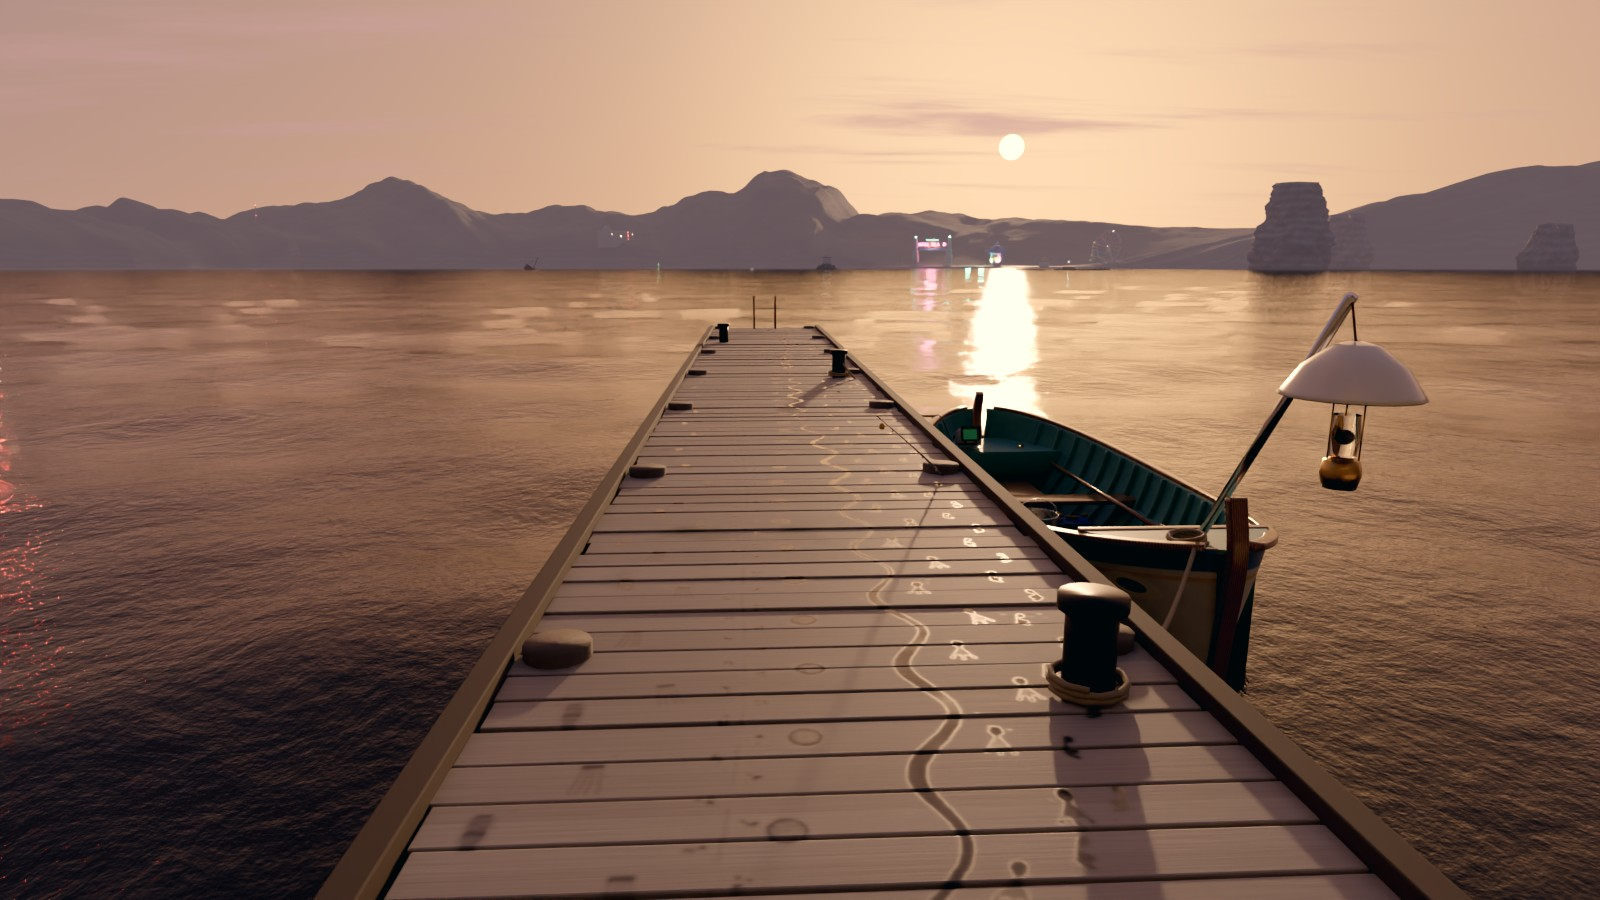
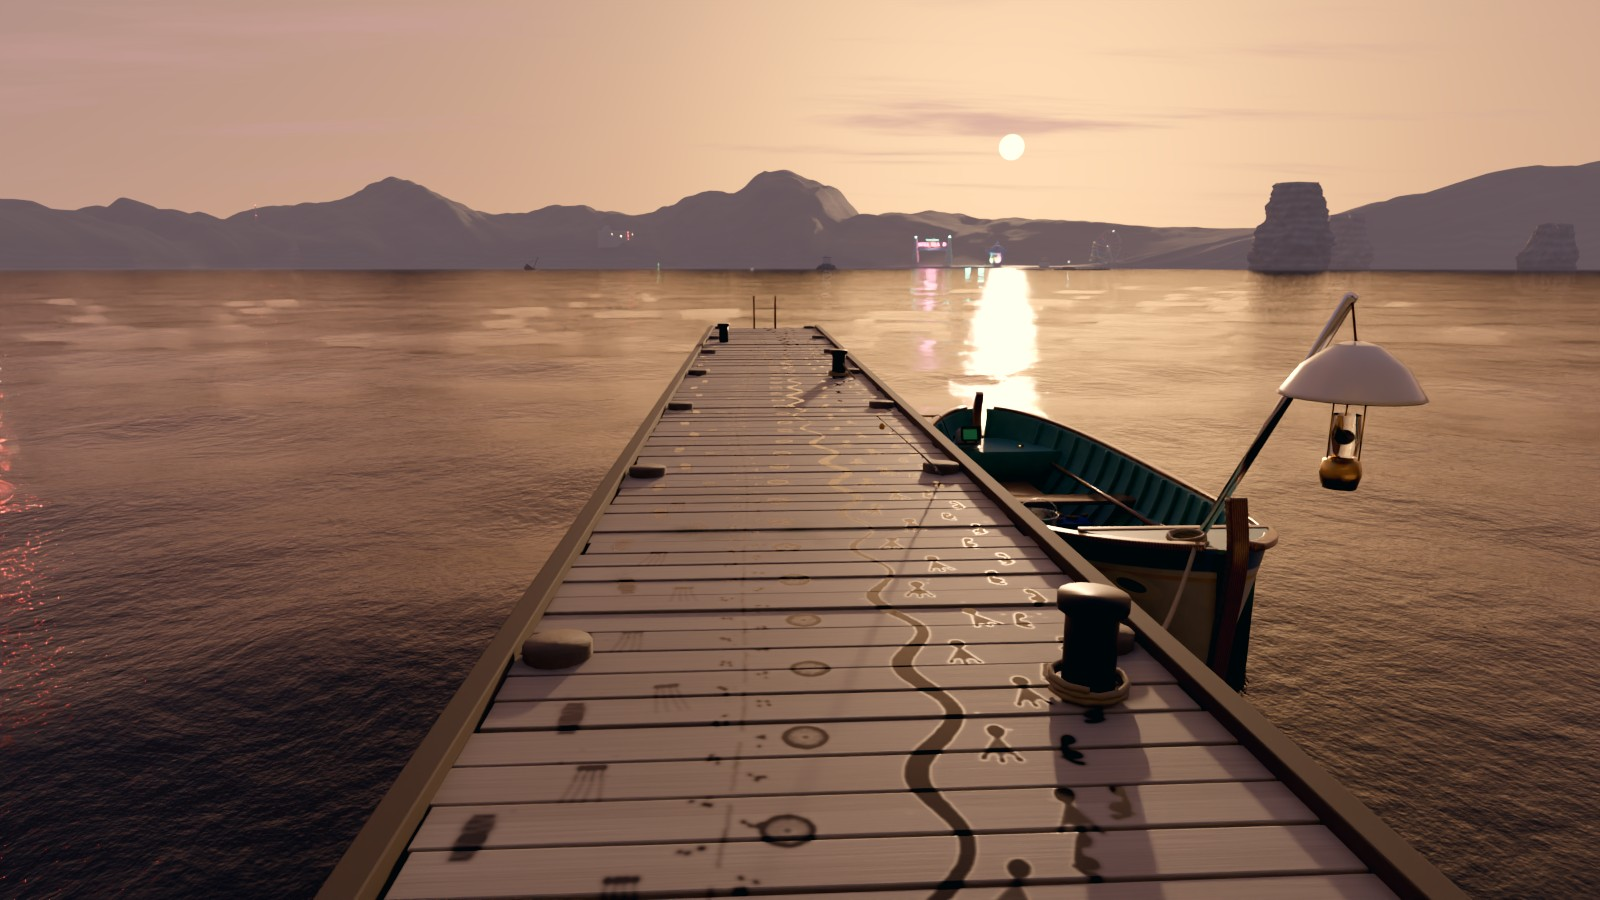
Finali segreti: seconda anteprima, da approvare
- molo: impronte più grandi (×1,3) e bagnate fradice (legno quasi nero e lucido,
  riflesso dell'acqua): si leggono tutte e sette anche fuori dalla scia del sole
- edicola: la Polaroid appesa con una molletta a uno spago davanti all'edicola,
  inquadratura stretta (medio tele, f/1,4), a fuoco e un quarto del quadro; le foto
  vecchie sfocate dietro, i lumini fuori quadro; la foto ricomposta perché il
  pescatore si legga sopra il bordo
- documento aggiornato

Claude-Session: https://claude.ai/code/session_012qJwcTD6jF9nZVGwVqjPut

diff --git a/tools/render/finali.py b/tools/render/finali.py
@@ -10,10 +10,10 @@ motore mostra alla fine della cinematica con un lento movimento di camera.
            distanza, come una sanguisuga che cammina), gli artigli sottili di Fangy (sulle nocche), la scia
            strisciante di Archie.
   edicola  «Nessuno»: l'edicola votiva dello scoglio da vicino, nella luce grigia del primo mattino, con le foto dei
-           bambini (binocolo.lore_photos); infilata nella cornice della foto di mezzo del 1997, una Polaroid nuova,
-           l'unica non sbiadita: la barca di notte con la lampara accesa e la sagoma del pescatore, scattata da sotto,
-           dal pelo dell'acqua, come da qualcuno che nuotava lì accanto. La Polaroid è un render vero della scena del
-           gioco (polaroid()).
+           bambini (binocolo.lore_photos), sfocate dietro; davanti, appesa con una molletta a uno spago, una Polaroid
+           nuova, l'unica non sbiadita, a fuoco: la barca di notte con la lampara accesa e la sagoma del pescatore,
+           scattata da sotto, dal pelo dell'acqua, come da qualcuno che nuotava lì accanto. La Polaroid è un render
+           vero della scena del gioco (polaroid_scene_image()); FINALI_RIUSA_FOTO=1 riusa quella già fatta.
 
 La scena del molo usa la costa, il paese e il faro di env.py, spostati e girati in modo che la barca (che sta
 nell'origine, col buco nel mare di env.build_sea) sia ormeggiata al molo, a 24° a sinistra del campanile.
@@ -94,6 +94,7 @@ DECK_Z = 1.10                          # piano delle assi sul mare
 Y_OUT, Y_LAND = -14.0, 9.0             # le due teste del molo: in fondo, verso il largo, e sulla banchina
 Y_SHORE = 12.0                         # la riva (s = 0)
 TEX_RES = 0.004                        # metri per pixel della maschera delle impronte
+PRINT_SCALE = 1.3                      # le impronte un po' più grandi del vero, per leggersi da in piedi
 SUN_DIR = Vector((-0.27, -0.95, 0.12)).normalized()    # il sole appena sorto sopra le colline del parco, davanti
 
 
@@ -185,6 +186,7 @@ class Stamp:
         c, s = math.cos(heading), math.sin(heading)
 
         def f(lx, ly):
+            lx, ly = lx * PRINT_SCALE, ly * PRINT_SCALE
             return (pos[0] + lx * c + ly * s, pos[1] - lx * s + ly * c)
         return f
 
@@ -202,7 +204,7 @@ class Stamp:
 
     def line(self, f, pts, width, v=255):
         q = [self.px(*f(x, y)) for x, y in pts]
-        w = max(1, int(round(width / TEX_RES)))
+        w = max(1, int(round(width * PRINT_SCALE / TEX_RES)))
         self.d.line(q, fill=v, width=w, joint='curve')
         r = w / 2
         for x, y in (q[0], q[-1]):
@@ -389,7 +391,7 @@ def footprints_texture():
     a = np.asarray(im).astype(np.float32) / 255.0
     n = np.random.default_rng(5).random((a.shape[0] // 24 + 2, a.shape[1] // 24 + 2))
     n = np.asarray(Image.fromarray((n * 255).astype(np.uint8)).resize((a.shape[1], a.shape[0]), Image.BILINEAR)) / 255.0
-    a = np.clip(a * (0.75 + 0.35 * n), 0, 1)
+    a = np.clip(a * (1.05 + 0.3 * n), 0, 1)
     # la riga 0 dell'immagine è in alto, la v delle texture parte dal basso: in basso c'è il fondo del molo
     Image.fromarray((np.flipud(a) * 255 + 0.5).astype(np.uint8)).save(path)
     return path
@@ -411,10 +413,11 @@ def deck_material(mask_path):
                   [(0.25, (0.20, 0.185, 0.165)), (0.55, (0.31, 0.29, 0.265)), (0.85, (0.40, 0.38, 0.35))])
     moss = g.smoothstep(0.62, 0.78, g.noise(pos, scale=1.4, detail=5.0).fac)
     base = g.mix(g.mul(moss, 0.5), base, (0.05, 0.07, 0.035))
-    col = g.mix(wet, base, g.mix(1.0, base, (0.15, 0.15, 0.17), blend='MULTIPLY'))
-    rough = g.mixf(wet, g.add(0.6, g.mul(grain, 0.2)), 0.035)
+    # bagnato fradicio: il legno diventa quasi nero e lucido, e riflette come l'acqua (meno della vernice)
+    col = g.mix(wet, base, g.mix(1.0, base, (0.07, 0.065, 0.065), blend='MULTIPLY'))
+    rough = g.mixf(wet, g.add(0.6, g.mul(grain, 0.2)), 0.05)
     nrm = g.bump(grain, strength=g.mixf(wet, 0.35, 0.08), distance=0.002)
-    g.output_material(g.principled(color=col, rough=rough, normal=nrm, spec=0.5))
+    g.output_material(g.principled(color=col, rough=rough, normal=nrm, spec=g.mixf(wet, 0.5, 0.28)))
     return m
 
 
@@ -557,7 +560,7 @@ def polaroid_scene_image(path):
     seduto in controluce. È la scena del gioco (jobs.build_scene), col pescatore reso visibile come sagoma."""
     import jobs
     jobs.build_scene(fish=3, rod=True)
-    dark = _mat('FisherDark', (0.012, 0.011, 0.010), rough=0.85)
+    dark = _mat('FisherDark', (0.005, 0.005, 0.005), rough=0.9)
     for name in ('PTorso', 'PHead', 'PThighL', 'PThighR', 'PShinL', 'PShinR', 'PArmL', 'PArmR'):
         o = bpy.data.objects.get(name)
         if o:
@@ -570,7 +573,7 @@ def polaroid_scene_image(path):
     for o in (cap, brim):
         o.data.materials.append(dark)
         set_lightgroup(o, 'ambient')
-    perspective_camera((-4.3, -2.9, 0.07), (0.0, 0.5, 1.25), lens=30.0, name='PolaroidCam', roll=math.radians(-6))
+    perspective_camera((-5.6, -3.2, 0.08), (0.0, 0.5, 1.45), lens=40.0, name='PolaroidCam', roll=math.radians(-6))
     exr = os.path.join(TEX, 'polaroid.exr')
     S = 512 if (FAST or not FINALE) else 900
     render(exr, 24 if not FINALE else 96, (S, S), data_passes=())
@@ -690,27 +693,51 @@ def scena_edicola():
     floor = rbox('ChapelFloor', (4.6, 3.6, 0.2), tuple(lp(0, -0.3, -0.1)), rot=(0, 0, rz), bevel=0.03, col=COL)
     floor.data.materials.append(painted('ChapelFloorStone', (0.32, 0.30, 0.27), rust=0.0, rough=0.85))
     set_lightgroup(floor, 'ambient')
-    # la Polaroid nuova, infilata nell'angolo in basso a destra della cornice di mezzo del 1997
+    # la Polaroid nuova, appesa con una molletta a uno spago teso fra le due pareti, davanti all'edicola: le foto
+    # vecchie restano più di un metro dietro, sfocate
     right0 = Vector((math.cos(rz), math.sin(rz), 0.0))
-    back = Vector((-math.sin(rz), math.cos(rz), 0.0))
-    lean = math.radians(12)
-    up = Vector((0, 0, 1)) * math.cos(lean) + back * math.sin(lean)
-    front = -back * math.cos(lean) + Vector((0, 0, 1)) * math.sin(lean)
-    c_mid = lp(0.0, 0.25, 1.16)
-    corner = c_mid + right0 * 0.25 - up * 0.31
-    roll = math.radians(-9)
-    r2 = right0 * math.cos(roll) + up * math.sin(roll)
-    u2 = up * math.cos(roll) - right0 * math.sin(roll)
+    front0 = Vector((math.sin(rz), -math.cos(rz), 0.0))       # verso il mare, dove sta chi guarda
+    zz = Vector((0.0, 0.0, 1.0))
+    ly_s, lz_s = -1.05, 1.58
+    pts = []
+    for t in np.linspace(0, 1, 25):
+        lx = -2.02 + 4.04 * t
+        pts.append(tuple(lp(lx, ly_s, lz_s - 0.05 * 4 * t * (1 - t))))
+    string = tube('OfferingString', pts, 0.0011, n=6, col=COL)
+    string.data.materials.append(_mat('StringMat', (0.42, 0.36, 0.28), rough=0.85))
+    lx_p = 0.22
+    sag = 0.05 * 4 * ((lx_p + 2.02) / 4.04) * (1 - (lx_p + 2.02) / 4.04)
+    hook = lp(lx_p, ly_s, lz_s - sag)
+    yaw, roll = math.radians(9), math.radians(-4)
+    r1 = right0 * math.cos(yaw) + front0 * math.sin(yaw)
+    r2 = r1 * math.cos(roll) + zz * math.sin(roll)
+    u2 = zz * math.cos(roll) - r1 * math.sin(roll)
+    n2 = r2.cross(u2)
     pw, ph = 0.088, 0.107
-    centre = corner - r2 * 0.025 + u2 * 0.035 + front * 0.05
+    centre = hook - u2 * (ph / 2 + 0.012)
     binocolo.quad('PolaroidNew', tuple(centre), tuple(r2), tuple(u2), pw, ph, polaroid_material(pol_path), segs=6)
-    # la camera: dentro l'edicola, sotto il tetto, alta come un uomo chino a guardare
-    target = centre - right0 * 0.20 + Vector((0, 0, 0.07))
-    eye = lp(0.5, -1.0, 1.06)
-    cam = perspective_camera(tuple(eye), tuple(target), lens=33.0, name='EdicolaCam')
+    # la molletta di legno che stringe il bordo alto, con la molla di ferro
+    wood = _mat('ClothespinWood', (0.55, 0.42, 0.26), rough=0.7)
+    for k, side in enumerate((-1, 1)):
+        c = hook + u2 * 0.006 + n2 * side * 0.0035
+        pin = rbox('Clothespin', (0.010, 0.0045, 0.072), tuple(c), bevel=0.0015, col=COL)
+        pin.rotation_mode = 'QUATERNION'
+        pin.rotation_quaternion = Matrix((tuple(r2), tuple(n2), tuple(u2))).transposed().to_quaternion()
+        pin.data.materials.append(wood)
+    spring = cylinder('ClothespinSpring', 0.0045, 0.012, tuple(hook + u2 * 0.012), verts=12, col=COL)
+    spring.rotation_mode = 'QUATERNION'
+    spring.rotation_quaternion = n2.to_track_quat('Z', 'Y')
+    spring.data.materials.append(_mat('SpringSteel', (0.5, 0.5, 0.52), rough=0.35, metal=1.0))
+    for o in bpy.data.objects:
+        if o.name.startswith(('OfferingString', 'Clothespin', 'PolaroidNew')):
+            set_lightgroup(o, 'ambient')
+    # la camera: un medio tele a un metro e un quarto, poca profondità di campo; la Polaroid è un quarto del quadro
+    eye = centre + front0 * 1.25 + right0 * 0.14 + zz * 0.05
+    target = centre - right0 * 0.07 + zz * 0.005
+    cam = perspective_camera(tuple(eye), tuple(target), lens=60.0, name='EdicolaCam')
     cam.data.dof.use_dof = True
     cam.data.dof.focus_distance = (centre - eye).length
-    cam.data.dof.aperture_fstop = 2.8
+    cam.data.dof.aperture_fstop = 1.4
     return {'ev': 0.0, 'haze': (0.62, 0.64, 0.68), 'haze_amt': 0.5, 'groups': ('ambient',)}
 
 

diff --git a/docs/NOTTI_E_MOSTRI.md b/docs/NOTTI_E_MOSTRI.md
@@ -399,21 +399,22 @@ scala, proporzioni ed esposizione); il comando è lo stesso con `--finale`.
   - **Archie**: una scia che serpeggia, continua.
 
   Attorno a dove sono saliti, gocce. Le impronte sono una maschera dipinta (4 mm per pixel) sotto il materiale delle
-  assi: dove è bagnato il legno è scuro e lucido.
-  **Ancora da sistemare**: fuori dalla scia del sole (le file a sinistra, Lampy, Robin, Fangy e Hatch) le impronte
-  si leggono poco; prima del finale vanno rese più scure o più grandi.
+  assi, un po' più grandi del vero (×1,3) per leggersi da in piedi: dove è bagnato il legno è quasi nero e lucido, e
+  riflette come l'acqua. Così si leggono tutte e sette, anche fuori dalla scia del sole (seconda anteprima, 11
+  ottobre).
 - **«Nessuno» — l'edicola da vicino** (`docs/concept/finali_edicola_anteprima.jpg`). L'edicola votiva dello scoglio
-  (la stessa del binocolo: `landmarks.build_chapel` e `binocolo.lore_photos`) vista da dentro, sotto il tetto, nella
-  luce grigia di un mattino coperto; i lumini sono quasi consumati. Le foto dei bambini sono quelle della scena,
-  ammorbidite per il primo piano. **La tua foto** (proposta): una **Polaroid nuova**, l'unica non sbiadita, infilata
-  nell'angolo della cornice di mezzo del 1997. Dentro, la barca di notte con la lampara accesa e la sagoma del
-  pescatore col berretto, vista da sotto, dal pelo dell'acqua, a sinistra di poppa, come da qualcuno che nuotava lì
-  accanto: è un render vero della scena del gioco (il pescatore, che nel gioco proietta solo l'ombra, qui si vede in
-  controluce), passato in colori da Polaroid (neri slavati, grana, vignetta). È grande come una Polaroid vera
-  (8,8×10,7 cm); il fuoco è su di lei e il movimento di camera del motore dovrebbe avvicinarsi piano.
+  (la stessa del binocolo: `landmarks.build_chapel` e `binocolo.lore_photos`) nella luce grigia di un mattino coperto.
+  **La tua foto** (proposta): una **Polaroid nuova**, l'unica non sbiadita, appesa con una molletta di legno a uno
+  spago teso fra le due pareti, sul davanti dell'edicola. L'inquadratura è stretta su di lei (un medio tele a un metro
+  e un quarto, f/1,4): la Polaroid è a fuoco e occupa circa un quarto dell'altezza del quadro; dietro, più di un metro
+  più in là, le foto dei bambini del 1997 e i teschi sono macchie di colore sbiadito nelle cornici (le foto pensate per
+  il binocolo, da vicino, sembravano grezze; così non si rifanno). I lumini restano fuori dall'inquadratura. Dentro la
+  Polaroid, la barca di notte con la lampara accesa e la sagoma del pescatore col berretto, vista da sotto, dal pelo
+  dell'acqua, a sinistra di poppa, come da qualcuno che nuotava lì accanto: è un render vero della scena del gioco
+  (il pescatore, che nel gioco proietta solo l'ombra, qui si vede), passato in colori da Polaroid (neri slavati,
+  grana, vignetta). La Polaroid è grande come una vera (8,8×10,7 cm).
 
-**Da decidere**: le impronte una per mostro come sopra; la Polaroid (cosa c'è nella foto e dove è appesa); se la
-Polaroid va ingrandita per leggersi meglio nell'inquadratura ferma; e se per il primo piano servono foto dei bambini
-più dettagliate (oggi sono quelle pensate per il binocolo, da lontano). Nell'anteprima del molo il paese non si vede
-(è alle spalle della camera): le impronte vanno verso di lui.
+**Da decidere**: le impronte una per mostro come sopra; la Polaroid (cosa c'è nella foto, e lo spago con la molletta
+davanti all'edicola). Nell'anteprima del molo il paese non si vede (è alle spalle della camera): le impronte vanno
+verso di lui.
 
